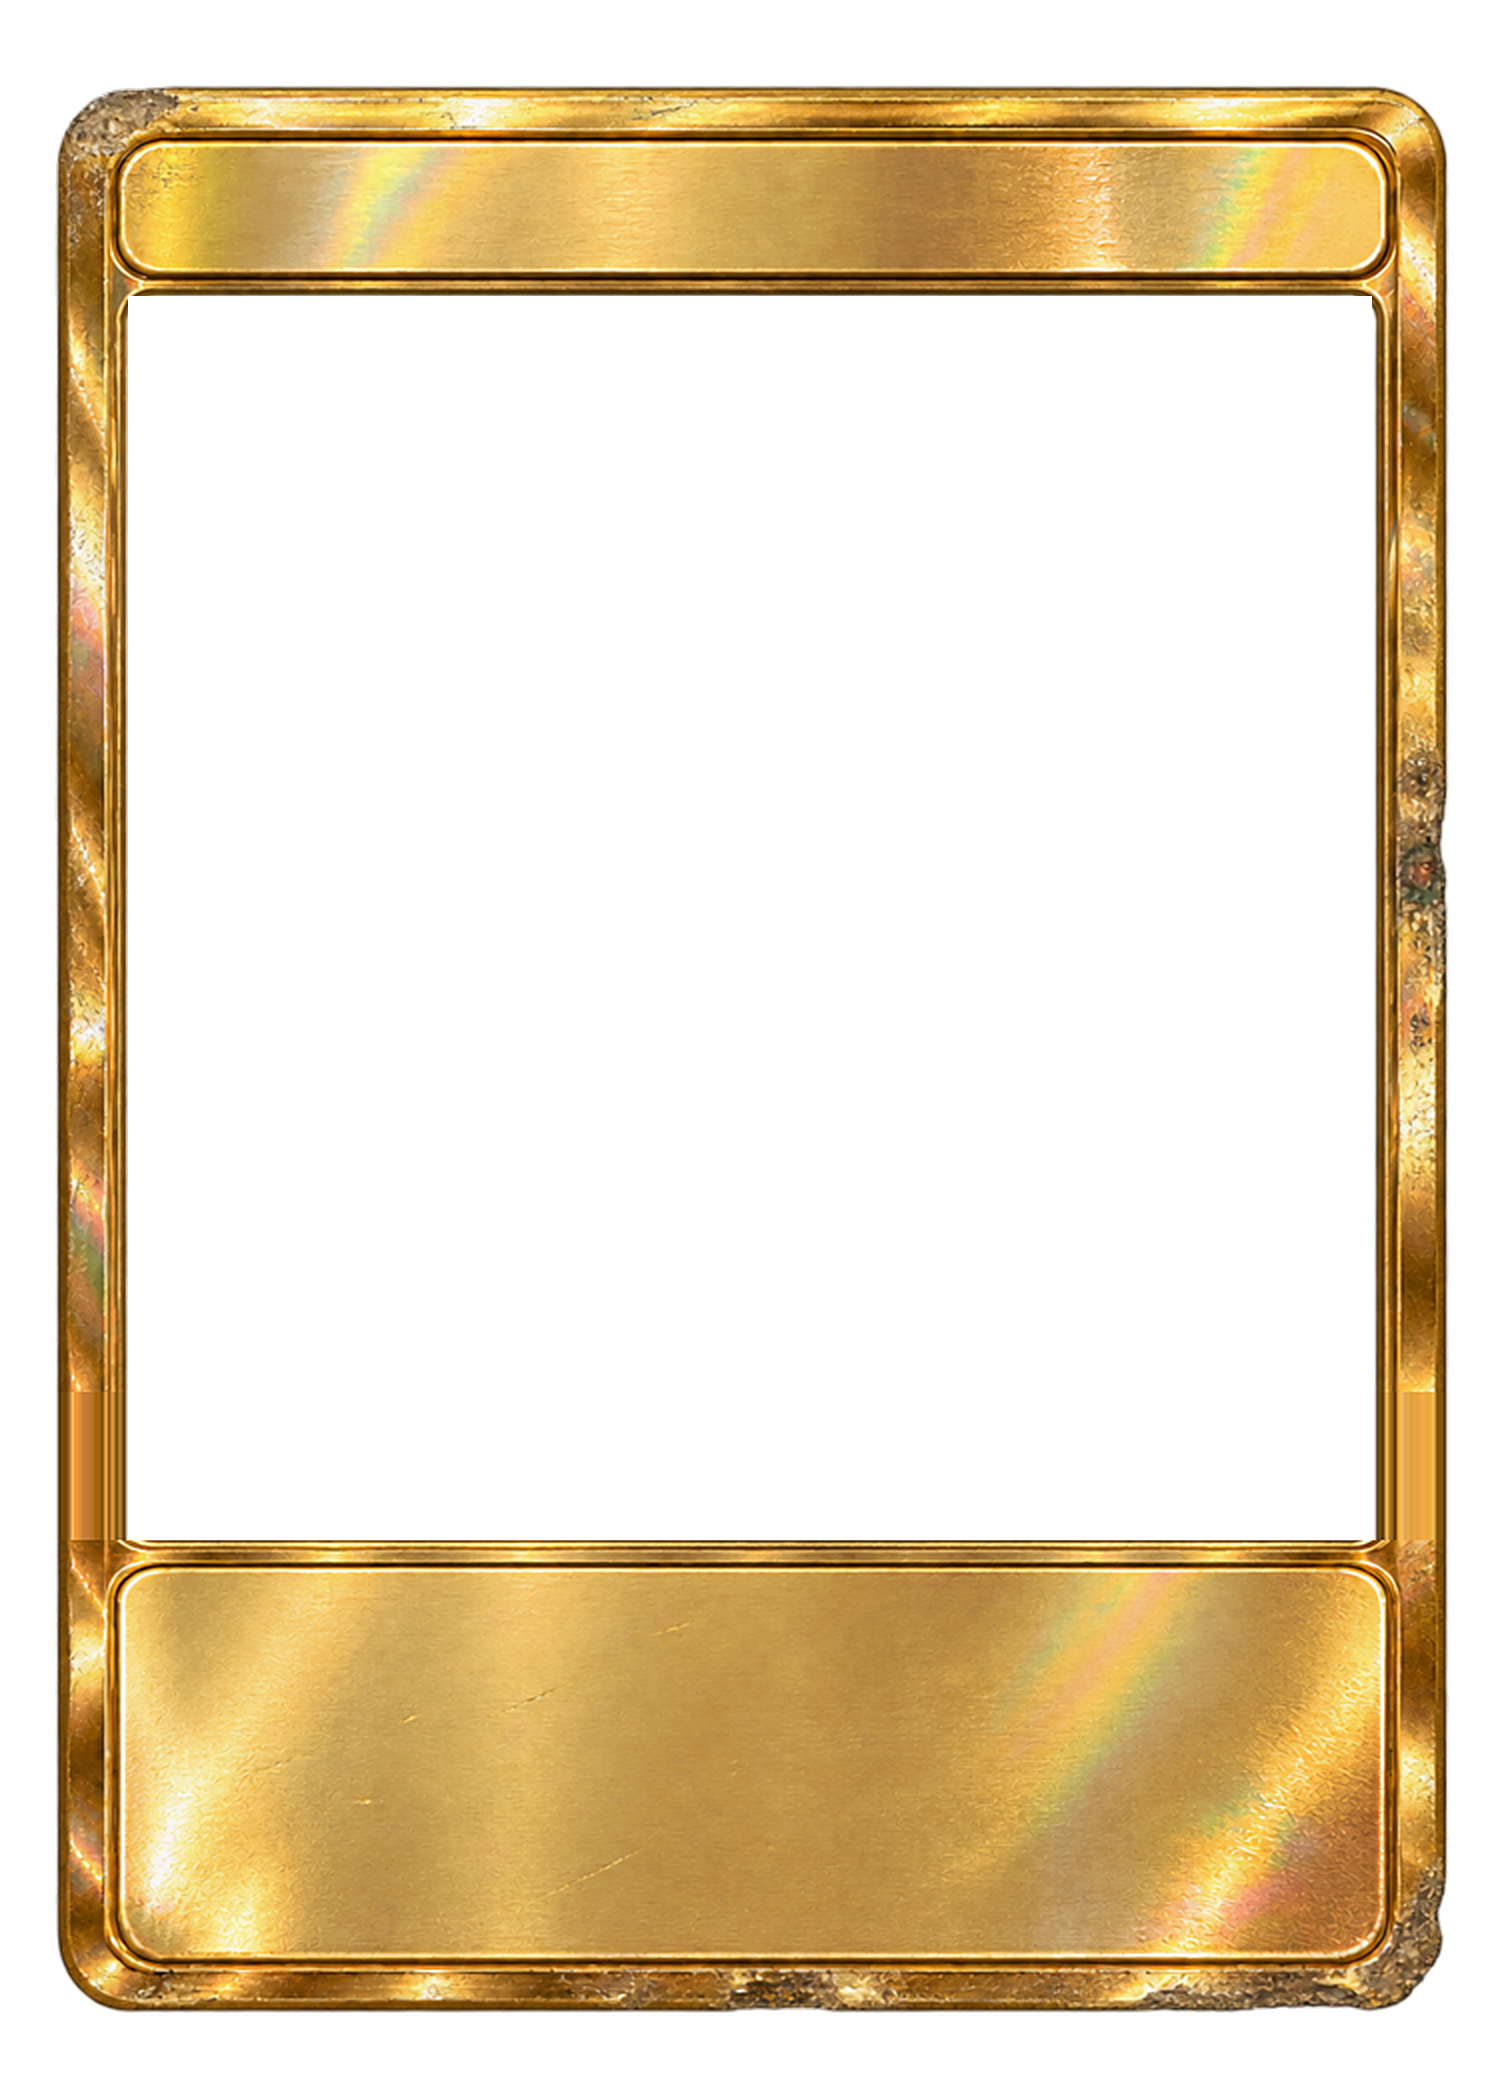
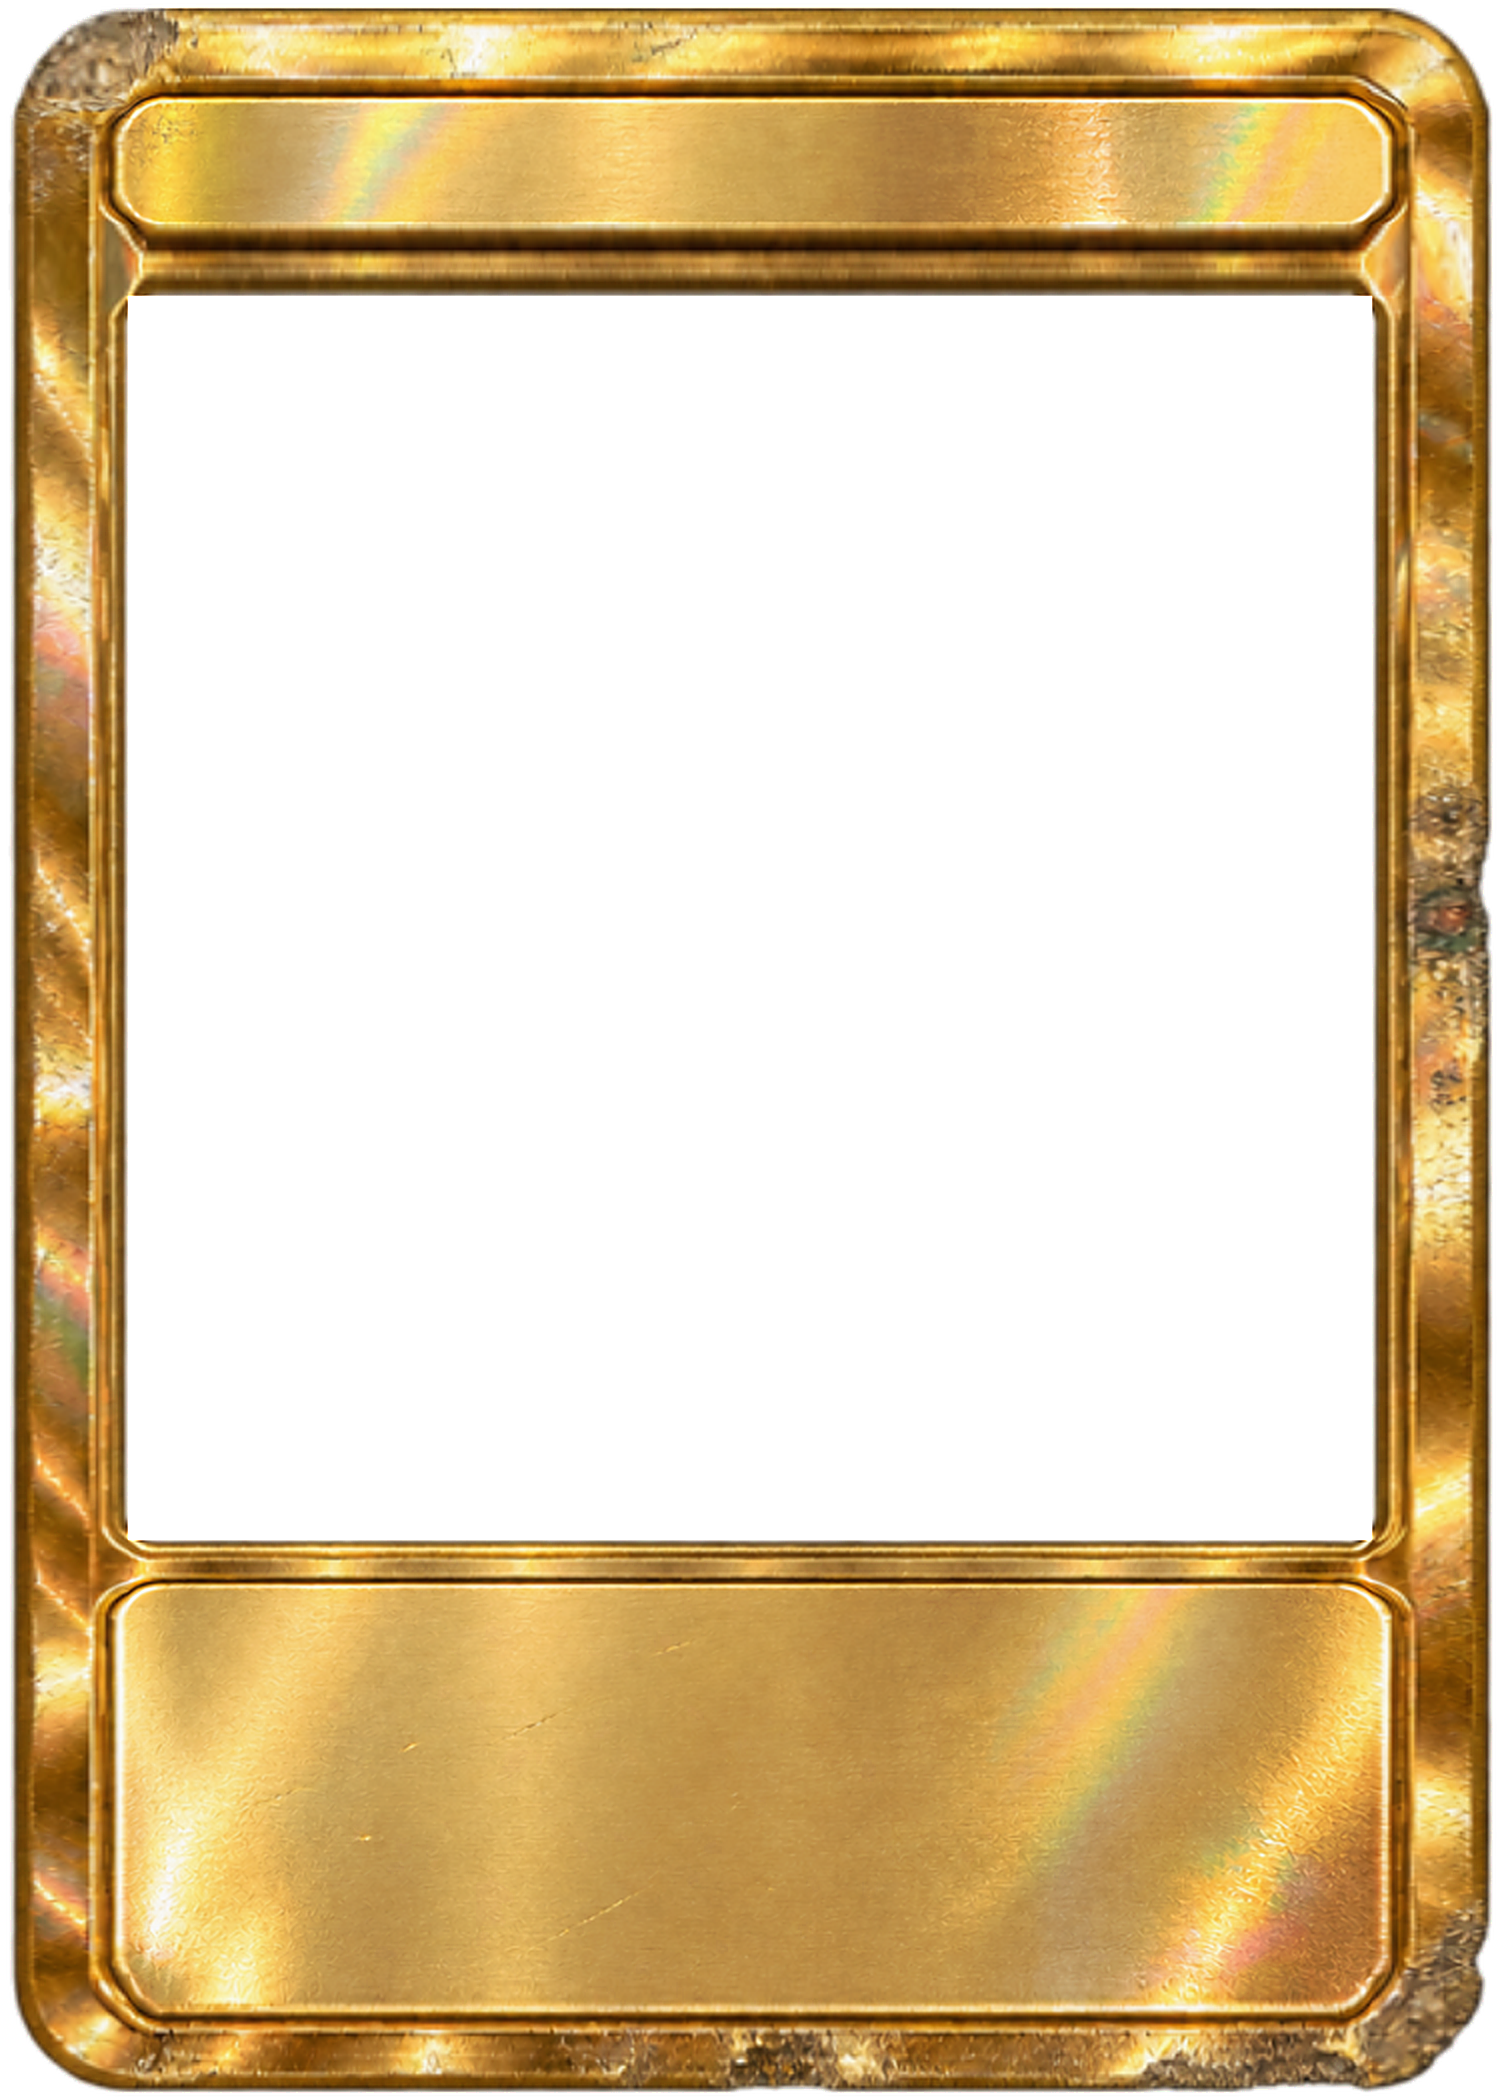
Gold holo frames remade full size to the shared layout; Gold's special cases removed (panel fit script, own name box)
Claude-Session: https://claude.ai/code/session_01LEzX9WUx8sWcSwwRyLeaEz

diff --git a/studio/src/layoutDefaults.ts b/studio/src/layoutDefaults.ts
@@ -15,7 +15,7 @@ export const BUILTIN_FONTS: { label: string; css: string }[] = [
 
 /** Layouts saved before the built-in frames existed were made for placeholder frames; they are replaced by the
  *  defaults below. Bump when the default layout changes in a way old saved layouts must not keep. */
-export const LAYOUT_VERSION = 5
+export const LAYOUT_VERSION = 4
 
 /** Text colours per frame: Paper, Wood and Diamond have light panels (dark ink); Burning and Coal have dark panels
  *  (light ink). `window` fills the art window behind keyed art. */
@@ -47,12 +47,6 @@ function tb(box: Rect, over: Partial<TextStyle>): TextBox {
   return { box, style: style(over), visible: true }
 }
 
-/** Frame sets whose name bar isn't where the shared FRAME_GEOMETRY puts it. Gold is drawn smaller inside its canvas
- *  (y 88-2008 of 2100), so its name bar sits lower: y 144-268. */
-const NAME_BAR: Record<string, Rect> = {
-  gold: { x: 150, y: 150, w: 1200, h: 112 },
-}
-
 /** The default layout of a frame set (layouts are per frame set; every card type using the set shares it). */
 export function defaultLayout(material: string): Layout {
   const ink = INK[material] ?? NEUTRAL_INK
@@ -71,7 +65,7 @@ export function defaultLayout(material: string): Layout {
     layering: 'art-behind',
     art: { box: artBoxOf(material), fit: 'cover', scale: 1, offsetX: 0, offsetY: 0, background: ink.window },
     text: {
-      name: tb({ ...(NAME_BAR[material] ?? g.nameBar) }, { ...c, size: 104, align: 'center' }),
+      name: tb({ ...g.nameBar }, { ...c, size: 104, align: 'center' }),
       material: tb({ x: info.x, y: info.y + 4, w: textW, h: 110 }, { ...c, size: 96, uppercase: true }),
       category: tb({ x: info.x, y: info.y + 118, w: textW, h: 66 }, { ...c, size: 58, bold: false }),
       forged: tb({ x: info.x, y: info.y + 186, w: textW, h: 58 }, { ...c, size: 48, bold: false, italic: true }),
@@ -98,10 +92,6 @@ export function normalizeLayout(material: string, stored: Partial<Layout> | unde
     const font = t.name?.style.font
     t.forged = { ...d.text.forged, style: { ...d.text.forged.style, ...(font ? { font, color: t.category?.style.color ?? d.text.forged.style.color } : {}) } }
     stored = { ...stored, text: t }
-  }
-  // v4 -> v5: Gold's name box moved onto Gold's own name bar
-  if ((stored.version ?? 0) < 5 && NAME_BAR[material] && stored.text?.name) {
-    stored = { ...stored, text: { ...stored.text, name: { ...stored.text.name, box: { ...d.text.name.box } } } }
   }
   return {
     ...d,
